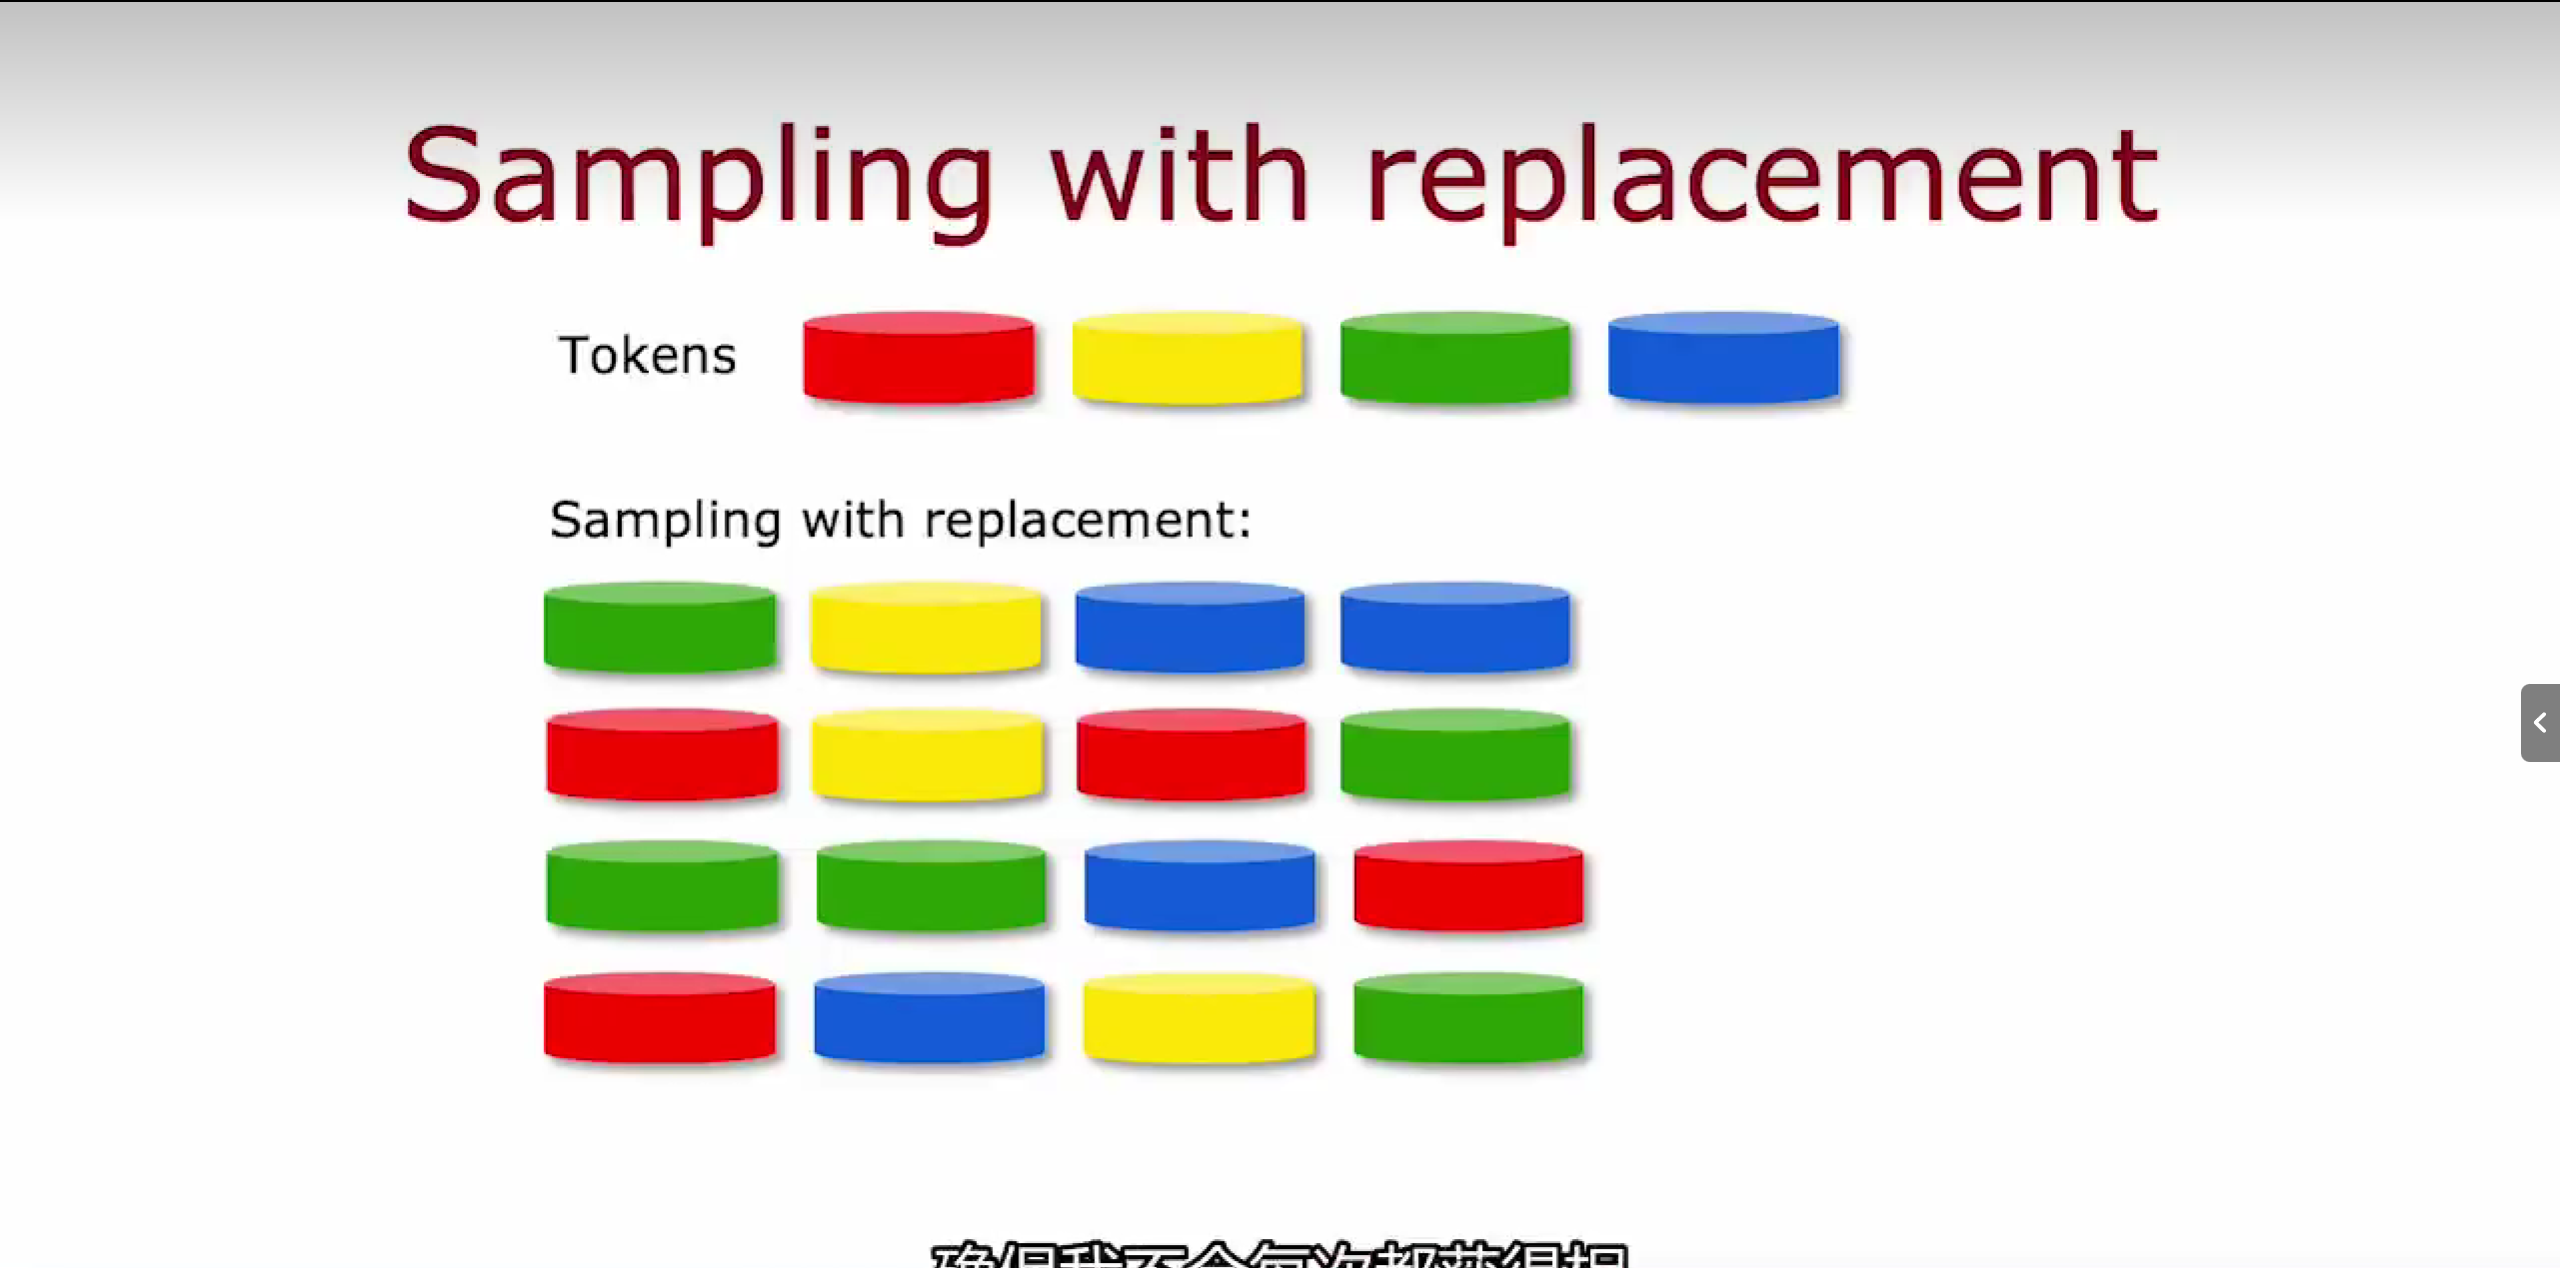
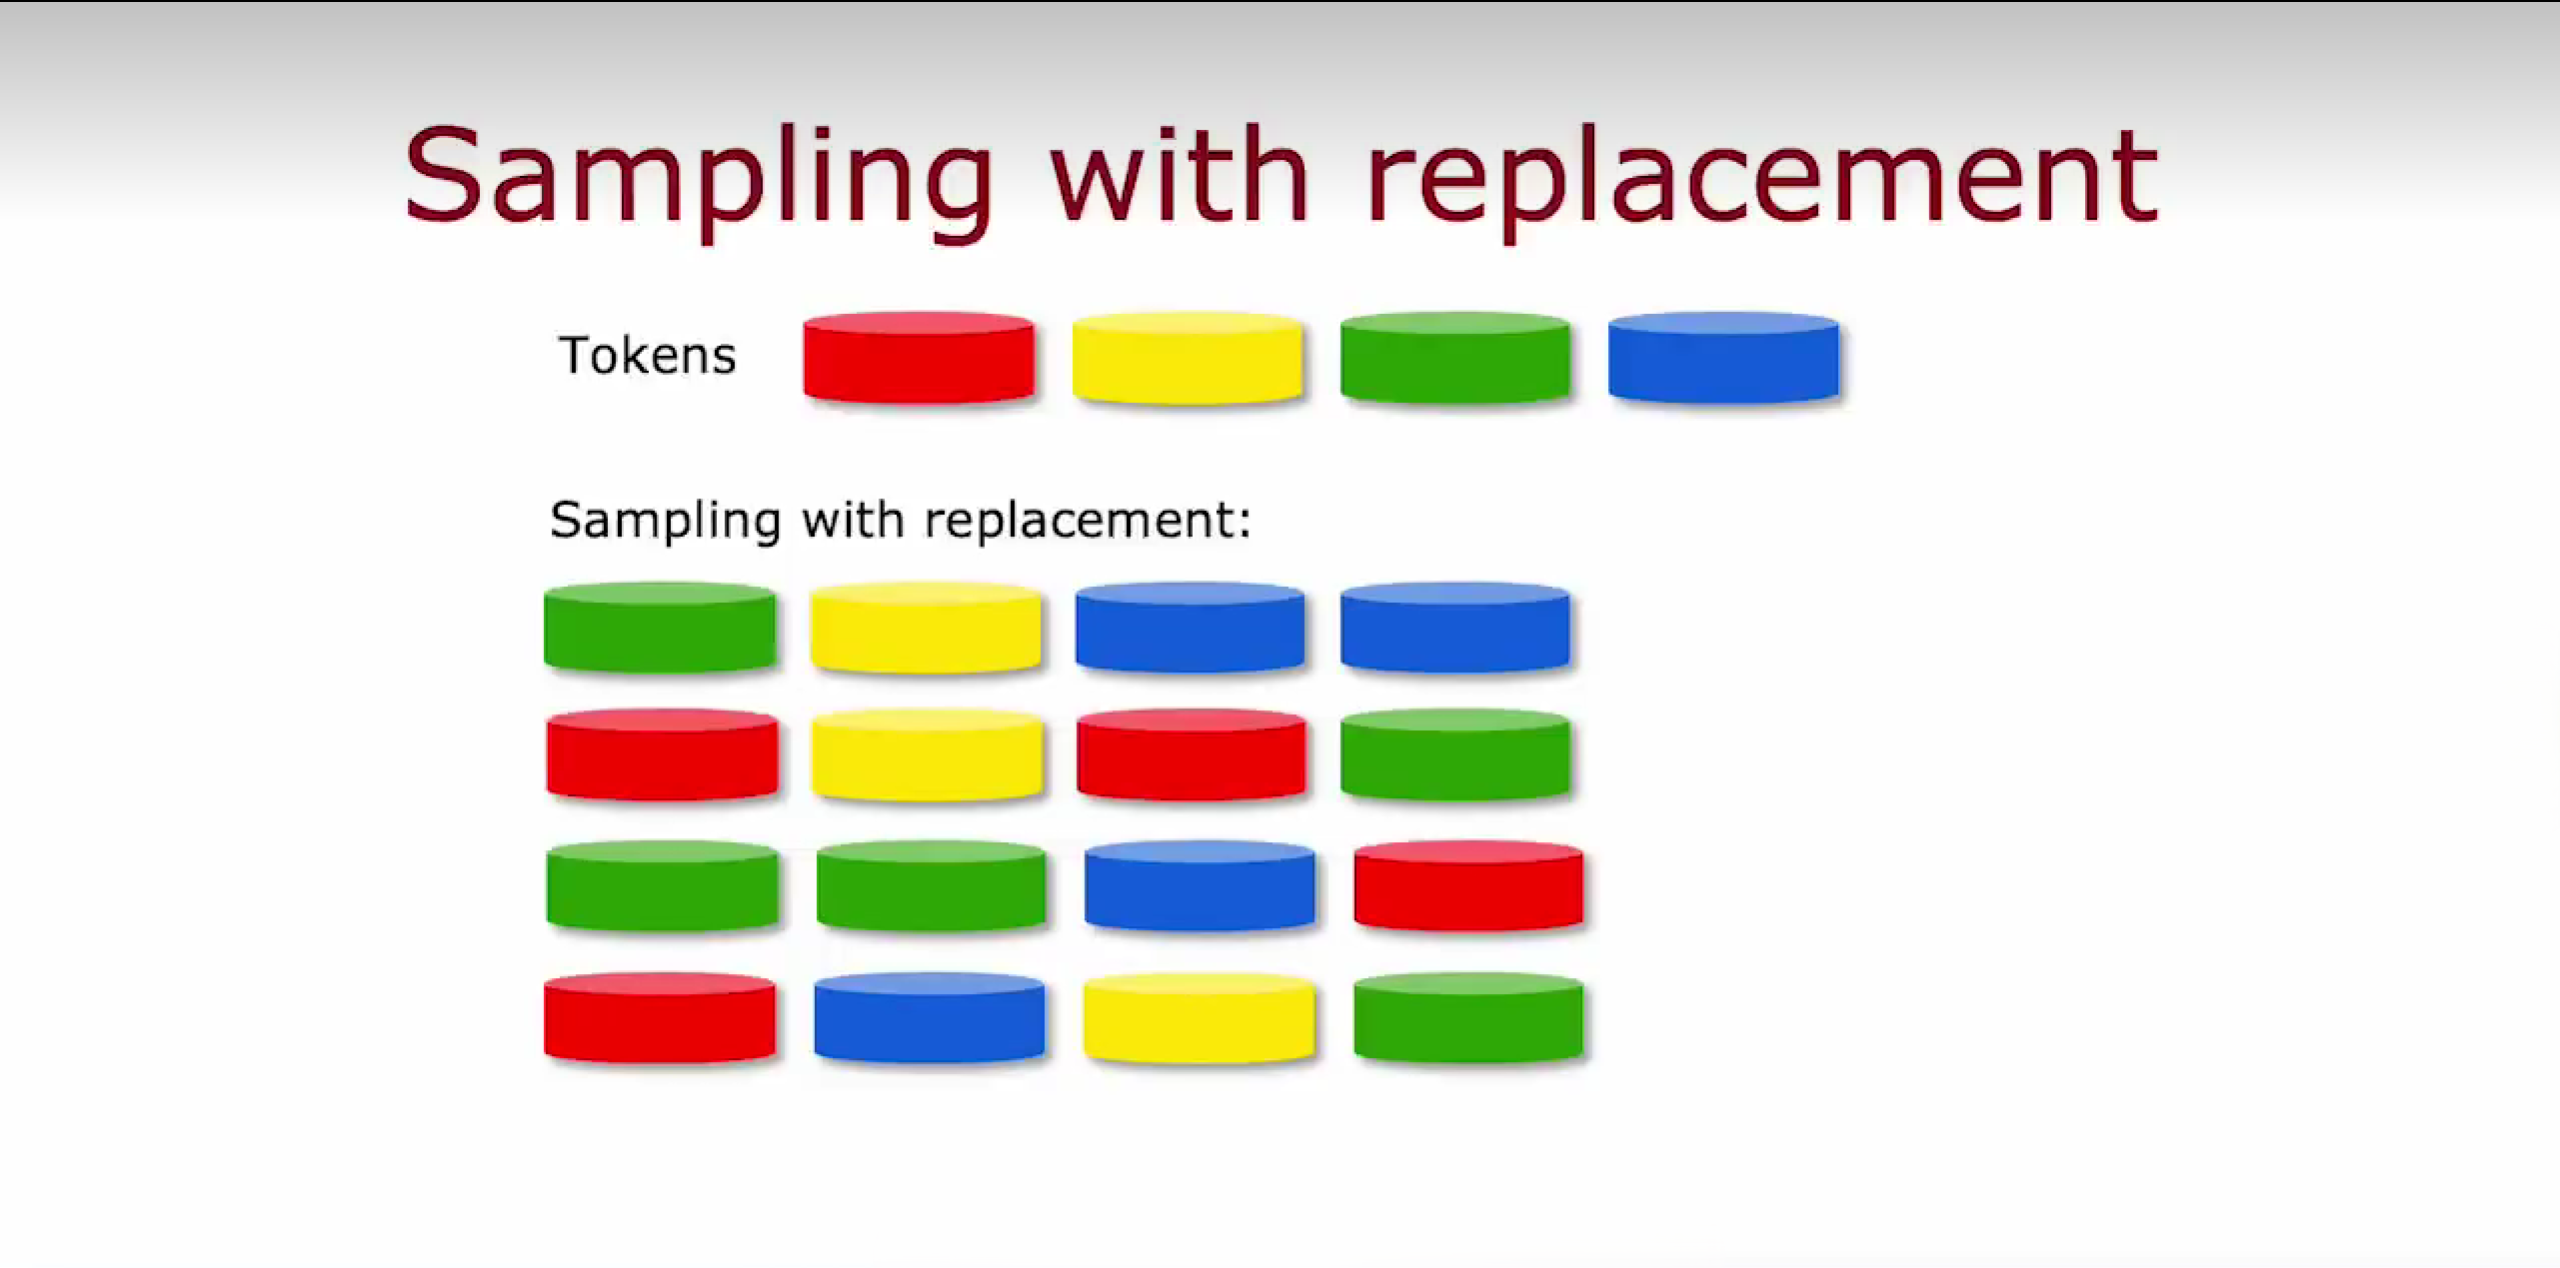
0827

Changed region(s): [[0.3438, 0.9535, 0.6562, 1.0], [0.9688, 0.5229, 1.0, 0.6151]]

diff --git a/source/_posts/吴恩达机器学习/吴恩达机器学习(三)：无监督学习.md b/source/_posts/吴恩达机器学习/吴恩达机器学习(三)：无监督学习.md
@@ -1,0 +1,146 @@
+---
+title: 吴恩达机器学习(三):无监督学习
+tags: 机器学习
+categories: 机器学习
+top_img: ../image/吴恩达机器学习/吴恩达机器学习(三)/cover.png
+date: 2024-05-10 00:00:00
+copyright: false
+description: 吴恩达机器学习(三):无监督学习
+cover: ../image/吴恩达机器学习/吴恩达机器学习(三)/cover.png
+---
+
+# 无监督学习
+
+# 一、无监督学习
+## 1.1 聚类
+### 1.1.1 什么是聚类
+聚类（Clustering）是无监督学习中的一种技术，旨在将数据集中的样本根据其特征相似度进行分类，使得同一组中的样本相似度较高，而不同组之间的样本相似度较低。
+在监督学习中，我们使用的数据集中每个样本都包括输入特征x和标签y，但在无监督学习中我们使用的数据集样本只有特征x而没有标签y，我们想要算法做的是找到样本之间的一些相似处与不同之处，然后将其分类开来。
+| ![](/image/吴恩达机器学习/吴恩达机器学习(三)/cluster1.png) | ![](/image/吴恩达机器学习/吴恩达机器学习(三)/cluster2.png) |
+| ------------------------------------------------------- | ------------------------------------------------------- |
+
+聚类目前有很多应用场景，包括客户细分、图像压缩、文档分类、生物信息学等等。
+
+### 1.1.2 k-means算法
+k-means算法是最经典的聚类算法之一，它旨在将数据集划分为k个簇，每个簇均由其均值（质心）表示。
+我们用一个简单的例子来展示一下k-means算法的实现过程。
+首先这是一个包含了30个无标记样本的数据集，每一个点都表示一个样本：
+![](/image/吴恩达机器学习/吴恩达机器学习(三)/k_means1.png)
+假如我们想把这些数据分为两组，那么k-means算法第一步要做的就是在图中随机选取两个点，作为两个簇的初始质心：
+![](/image/吴恩达机器学习/吴恩达机器学习(三)/cluster2.png)
+下一步k-means算法会开始移动质心，移动的过程具体如下：
+首先k-means算法会计算每个样本点到两个质心的距离，然后将该点分配给离它最近的质心：
+![](/image/吴恩达机器学习/吴恩达机器学习(三)/cluster3.png)
+当所有点都被分配完之后，k-means算法会分别计算所有红色点与所有蓝色点的平均值，也就是所有红色点的质心和所有蓝色点的质心，计算完后将红蓝质心分别移动到计算得到的位置，成为新的质心：
+![](/image/吴恩达机器学习/吴恩达机器学习(三)/cluster4.png)
+得到新的质心后，再重复上面两步，当两个簇的质心位置不再变化时，就说明k-means算法已经收敛，数据集也就被我们分为了两个簇：
+![](/image/吴恩达机器学习/吴恩达机器学习(三)/cluster5.png)
+
+### 1.1.3 k-means算法的具体实现
+k-means算法实现的具体过程是：
+![](/image/吴恩达机器学习/吴恩达机器学习(三)/kmeans_implementation1.png)
+1. 随机初始化K个簇质心$\mu_1,\mu_2,...,mu_K$，其中K是我们想要最终得到的组数
+2. 重复以下过程：
+   1. 将样本点分配给离它最近的簇质心(Assign points to cluster centroids)
+   for i = 1 to m 
+   c^(i) = index(from 1 to K) of cluster centroid closest to x^(i)
+   其中m为数据集中样本个数，$c^{(i)}$表示离样本$x^{(i)}$最近的簇质心的编号，比如1号样本点$x^{(1)}$距离最近的簇质心为$\mu2$，那么就说明将1号样本点分配给2号簇质心，表示为$c^{(1)}=2$。
+   2. 移动簇质心(Move cluster centroids)
+   for k = 1 to K
+   mu_k = average(mean) of points assigned to cluster k
+   计算k号簇中所有点的平均值，然后将该簇质心移动到该位置。比如1、5、6、10号样本分配给了1号簇，那么新的簇质心$\mu_1={{1 \over 4}[x^{(1)}+x^{(5)}+x^{(6)}+x^{(10)}]}$。
+   需要注意的是这里的$x^{(i)}$不一定是一维的，$x^{(i)}$实际是一个向量，其维度取决于样本数据有多少个特征，如果有两个特征，那么$x^{(i)}$就是二维向量。
+
+我们之前看的几个例子都是样本点有明显分离的数据集，但事实上，k-means算法也适用于样本数据没有很好分离的数据集，比如右侧这种有关区分T恤型号的数据集：
+![](/image/吴恩达机器学习/吴恩达机器学习(三)/kmeans_implementation2.png)它包含两个特征：身高和体重，可以看到该数据集中的样本数据没有很明显的分离，但是如果我们想把其分为S\M\L三个型号，那么我们就可以初始化3个簇质心，通过运行k-means算法来将其分为三个部分，从而帮助我们更好的通过身高体重来选择合适的衣服大小：
+![](/image/吴恩达机器学习/吴恩达机器学习(三)/kmeans_implementation3.png)
+
+### 1.1.4 优化目标
+#### 1.1.4.1 k-means成本函数
+与监督学习中相同，在k-means算法中我们也在使用成本函数来优化算法。
+k-means算法的成本函数是失真函数：
+$$
+J(c^{(1)},...,c^{(m)},\mu_1,...,\mu_K)={1 \over m}{\displaystyle\sum_{i=1}^m}||x^{(i)}-\mu_c^{(i)}||^2
+$$
+其中：$c^{(i)}$表示样本示例$x^{(i)}$被分配到的簇的编号，$\mu_k$表示编号为k的簇质心，$\mu_c^{(i)}$表示样本示例$x^{(i)}$被分配到的簇的质心位置。
+比如样本示例$x^{(1)}$被分配到了2号簇，那么$c^{(1)}$=2,$x^{(1)}$所在的簇的质心位置$\mu_c^{(1)}=\mu_2$。
+k-means算法所做的就是通过改变样本点的分配情况和簇质心的位置来最小化成本函数。
+### 1.1.4.2 成本函数优化原理
+结合我们之前说过的k-means算法的主要过程，我们可以说明成本函数实现算法优化的原理。
+![](/image/吴恩达机器学习/吴恩达机器学习(三)/cost_function1.png)
+在第一步中，我们首先固定了簇质心的位置，然后最小化成本函数。根据成本函数的表达式我们可知，此时$\mu_c^{(i)}$是固定的，所以想要使成本函数最小，就需要使$||x^{(i)}-\mu_c^{(i)}||$尽可能小，也就是让样本点离簇质心最近，这样就实现了将样本点分配给离它最近的簇质心。
+在第二步中，我们已经分配完了所有样本点，所以$x^{(i)}$已经固定了，要使成本函数最小，即使$||x^{(i)}-\mu_c^{(i)}||^2$最小，就是让簇质心离属于它这个簇的所有样本点最近，而求平均值就可以实现这一点。
+
+k-means算法通过最小化成本函数$J$来不断迭代，$J$不断减小说明算法正在不断收敛，当成本函数$J$不再随着迭代更新而变化时就说明K-means算法已经收敛。
+
+### 1.1.5 k-means初始化
+k-means算法的第一步是随机选择K个点作为初始的簇质心，而初始化位置也会影响k-means的收敛速度以及最终得到的效果。如果位置选择不当可能会导致最终有些簇内分配不到样本点。所以簇质心初始位置的选择也很重要。
+一般情况下，对于有m个样本示例的数据集，我们一般会选择K个示例点作为这K个簇的初始化质心。
+![](/image/吴恩达机器学习/吴恩达机器学习(三)/initialization2.png)
+在初始化过后我们会运行k-means算法，由于初始化位置不同，所以最后也会得到不同的结果：
+![](/image/吴恩达机器学习/吴恩达机器学习(三)/initialization1.png)
+虽然这三种情况都是通过最小化成本函数得到的，但是$J_1$要明显优于$J_2$和$J_3$。所以一般情况下我们都会多次随机初始化，然后通过k-means算法得到不同的结果，再从所有结果中选取使得成本函数$J$最小的一种情况。
+![](/image/吴恩达机器学习/吴恩达机器学习(三)/initialization3.png)
+
+### 1.1.6 选择聚类数量
+簇的个数k作为k-means算法的一个输入也十分重要。对于同一个数据集，我们可能会有多种k值的选择。比如在下图中，我们可以认为它主要有2个簇，也可以认为它有4个簇，甚至可以认为它有3个簇。
+![](/image/吴恩达机器学习/吴恩达机器学习(三)/k1.png)
+所以k值的选择一般是模棱两可的。
+人们常用于选择k值的一种方法是elbow方法，这种方法首先需要构造出不同的k值最后得到的成本函数$J$是多大，然后画出$J$关于K值的图像，我们一般会选择弯曲处作为我们最终选择的k值。
+![](/image/吴恩达机器学习/吴恩达机器学习(三)/k2.png)
+但是在实际中，$J-k$曲线一般是平滑的，很难找出我们想要的弯曲部分，所以我们更为常用的一种方法就是根据实际情况的需要来选择k值。我们一般会选择不同的k值然后运行k-means算法，通过评估模型最终的表现来判断k值是否合适。
+![](/image/吴恩达机器学习/吴恩达机器学习(三)/k3.png)
+比如对于选择T恤的尺寸，我们可以设置3个尺寸：S\M\L，也可以选择设置为5个尺寸：XS\S\M\L\XL。虽然5个尺寸看起来更精细化一些，但是在实际应用时，5个尺寸就会有各种额外的费用，所以最终k值的选择还需要考虑多方面因素的影响。
+
+## 1.2 异常检测
+### 1.2.1 什么是异常检测
+异常检测（Anomaly Detection）也是无监督学习的一种算法，它是一种识别数据中不符合预期模式或统计分布的样本的技术。这些异常样本通常表示潜在的异常事件、错误或罕见的现象。
+我们举一个简单的异常检测案例：比如对于飞机发动机的检测包含很多特征，简单起见我们只取两个特征：$x_1$表示发动机产生的热量，$x_2$表示发动机的振动强度。我们的数据集为$x^{(1)},x^{(2)},...x^{(m)}$，现在我们有一个新的发动机$x_{test}$，我们需要判断新的发动机是否正常。
+我们首先可以画出数据集在$x_1-x_2$上的位置，然后将新的示例也画在图中，如果该测试示例在非常密集的区域，我们就可以判断这个新的发动机应该没有问题，但是如果测试实例位于非常偏僻的位置，那我们就会认为它很有可能有故障。这就是异常检测算法的工作原理。
+![](/image/吴恩达机器学习/吴恩达机器学习(三)/anomaly_detection1.png)
+异常检测算法通常使用密度估计技术来实现。当我们拿到一个数据集时，我们首先需要根据这个数据集创建一个模型$Model\ p(x)$，这个模型就是为了判断每个数据出现的可能性的高低。当我们输入一个测试集示例$x_{test}$时，我们可以通过该模型得到$x_{test}$出现的概率$p(x_{test})$，如果$p(x_{test})$小于某个值$\epsilon$时，我们就认为$x_{test}$异常，反之则没有异常发生。
+
+### 1.2.2 高斯分布
+为了构建异常检测模型，我们需要使用到高斯分布，也叫做正态分布。高斯分布是一条根据事件$x$发生概率$p(x)$所得到的曲线。
+![](/image/吴恩达机器学习/吴恩达机器学习(三)/gaussian1.png)
+其中$\mu$是数据集的期望值，$\sigma$是数据集的标准差。它们的计算表达式如下：
+$$
+\begin{align*}
+   \mu = {1 \over m}\displaystyle\sum_{i=1}^mx^{(i)} \\
+   \sigma^2 = {1 \over m}\displaystyle\sum_{i=1}^m(x^{(i)}-\mu)^2
+\end{align*}
+$$
+曲线的表达式为：
+$$
+p(x)={1 \over \sqrt{2\pi}\sigma}e^{-(x-\mu)^2 \over 2\sigma^2}
+$$
+期望值$\mu$决定了曲线的位置，标准差$\sigma$决定了曲线的幅度。$\sigma$越大，曲线越宽，$\sigma$越小，曲线越窄。
+![](/image/吴恩达机器学习/吴恩达机器学习(三)/gaussian2.png)
+
+### 1.2.3 构建异常检测算法
+#### 1.2.3.1 多特征值密度估计
+我们已经知道了高斯分布是如何对只有一个特征的数据集起作用的，现在我们来看如何构建多特征值的异常检测算法。
+密度估计最重要的就是计算出样本$x^{(i)}$出现的概率。假设我们现在有一个训练集：$x^{(1)},x^{(2)},...,x^{(m)}$，其中每个样本$x^{(i)}$都包含n个特征。我们知道对于n个互不干扰的事件，计算它们同时出现的概率时就是将它们每一个出现的概率相乘，事实证明，即使这n个特征之间有一些联系，这种计算方法仍然有用。所以概率计算公式为：
+$$
+\begin{align*}
+   p(x) &= p(x_1;\mu_1,\sigma_1^2) * p(x_2;\mu_2,\sigma_2^2) * p(x_3;\mu_3,\sigma_3^2) * ... * p(x_n;\mu_n,\sigma_n^2) \\
+   &= \displaystyle\prod_{j=1}^np(x_j;\mu_j,\sigma_j^2)
+\end{align*}  
+$$
+比如在之前的飞机发动机检测案例中，假如发动机产生高热量的概率$p(x_1=high\ temp)=1/10$，发动机产生高振动强度的概率$p(x_2=high vibra)=1/20$，那么发动机出现异常情况的概率就是$p(x_1,x_2)=p(x_1)*p(x_2)={1 \over 10}*{1 \over 20}={1 \over 200}$
+#### 1.2.3.2 构建异常检测算法
+构建异常检测算法一般分3步：
+1. 选择n个你认为对异常检测有用的特征值$x_i$
+2. 计算参数$\mu_1,...,\mu_n,\sigma_1^2,...,\sigma_n^2$
+   其中：
+   $$
+   \begin{align*}
+      \mu_j = {1 \over m}{\displaystyle\sum_{i=1}^m}x_j^{(i)} \\
+      \sigma_j^2 = {1 \over m}{\displaystyle\sum_{i=1}^m(x_j^{(i)}-\mu_j)^2}
+   \end{align*}
+   $$
+3. 使用新的示例$x$，计算其出现的概率$p(x)$：
+   $$
+   p(x)=\displaystyle\prod_{j=1}^np(x_j;\mu_j,\sigma_j^2)=\displaystyle\prod_{j=1}^n{1 \over \sqrt{2\pi}\sigma_j}e^{-(x_j-\mu_j)^2 \over 2\sigma_j^2}
+   $$
+   如果结果$p(x)<\epsilon$，那么就判定为异常。